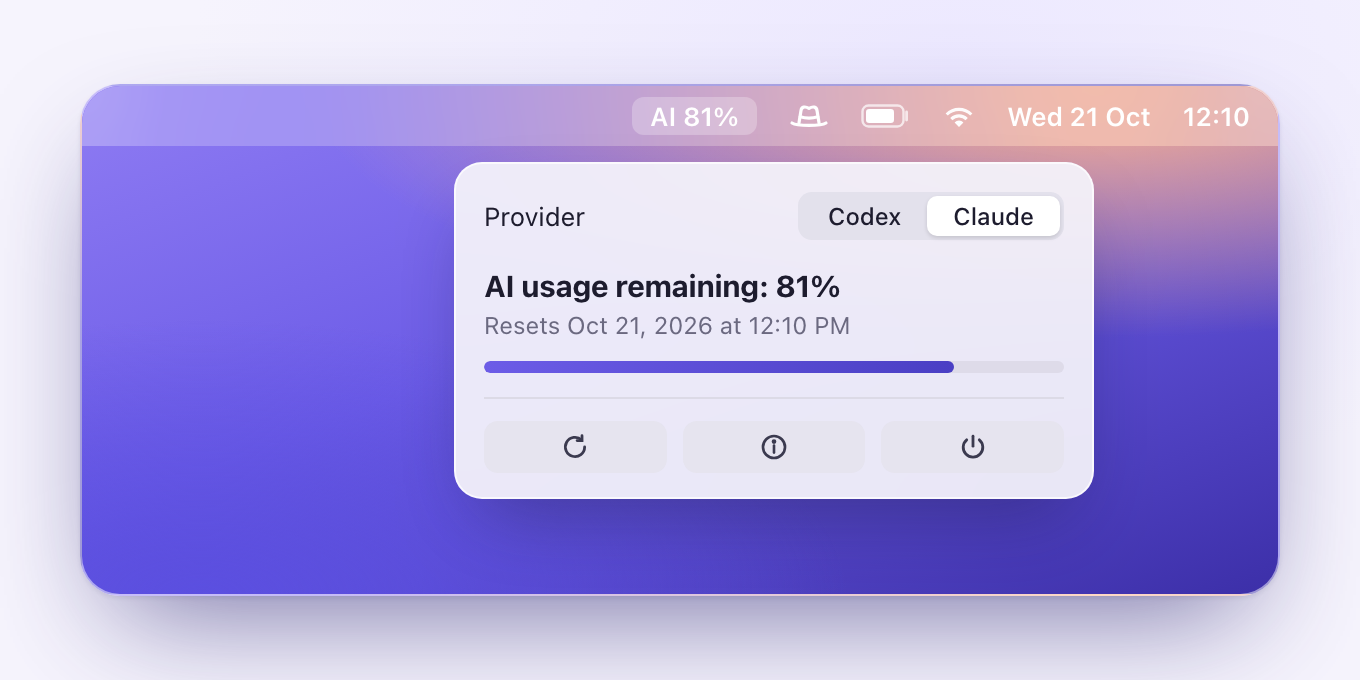
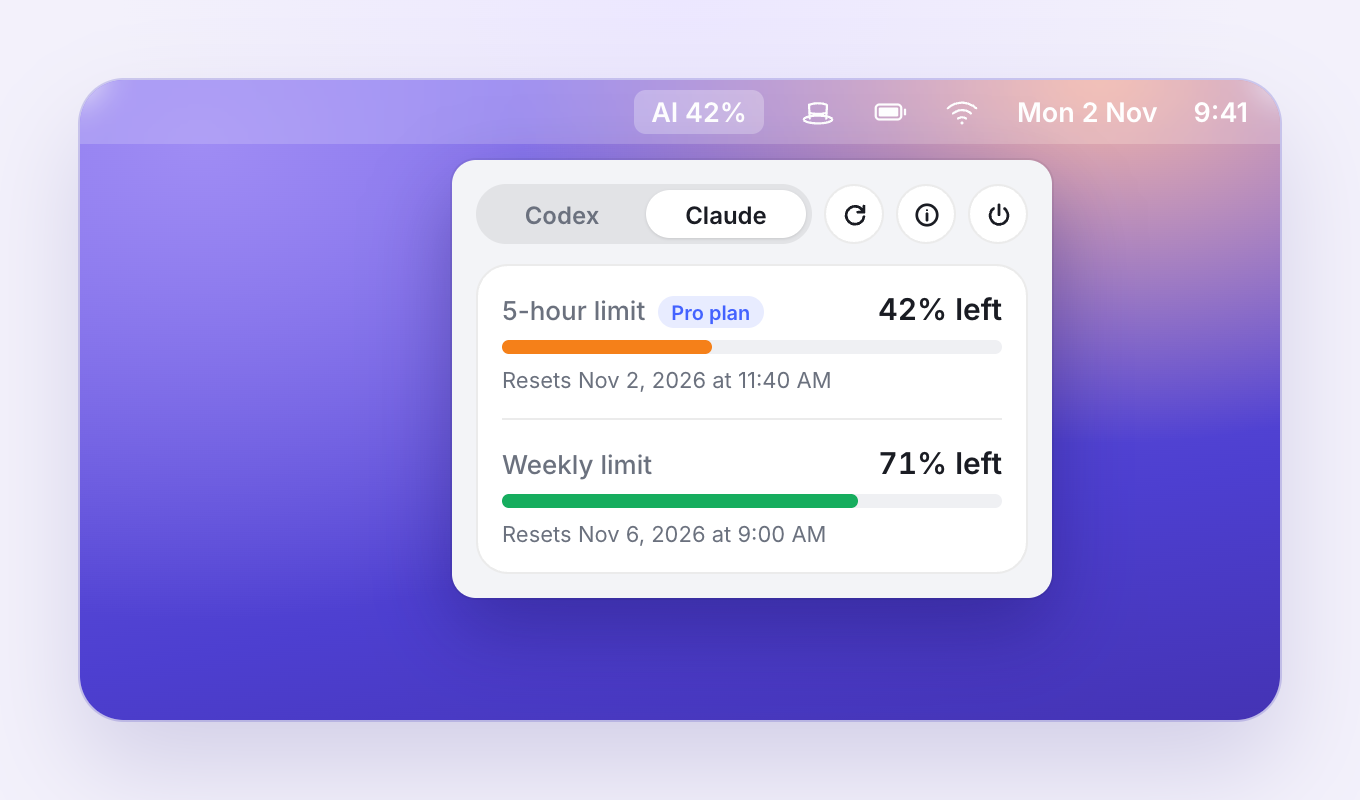
README: new screenshot with the 5-hour and weekly limits

diff --git a/README.md b/README.md
@@ -10,7 +10,7 @@ No account, no analytics; your token only goes to Anthropic or OpenAI.
 
 | macOS menu bar | Windows taskbar |
 | --- | --- |
-| ![AI Meter in the macOS menu bar showing 81% of Claude usage remaining](docs/ai-meter-menu.png) | ![AI Meter on the Windows taskbar showing 79% of Codex usage remaining](https://raw.githubusercontent.com/getguruhat/ai-meter-windows/main/docs/ai-meter-tray.png) |
+| ![AI Meter in the macOS menu bar: 42% of the Claude 5-hour limit and 71% of the weekly limit left, with reset times](docs/ai-meter-menu.png) | ![AI Meter on the Windows taskbar: 79% of the Codex 5-hour limit and 34% of the weekly limit left](https://raw.githubusercontent.com/getguruhat/ai-meter-windows/main/docs/ai-meter-tray.png) |
 
 It shows how much of your current Claude Code or Codex usage window is left, and when it resets, so you can plan the big refactor instead of getting cut off halfway through it. It refreshes every five minutes using the sign-in you already have.
 
